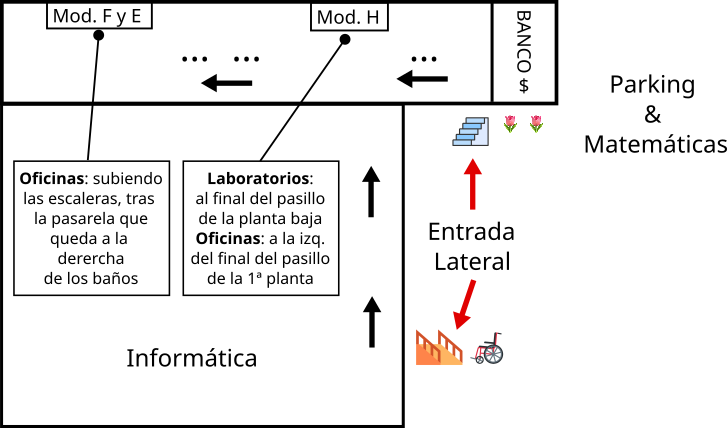
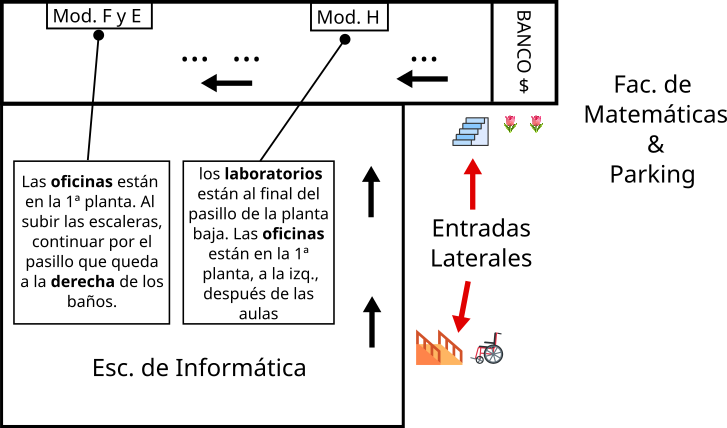
fixed bib/abs buttoms and map

diff --git a/_pages/teaching.md b/_pages/teaching.md
@@ -11,6 +11,6 @@ Puedes consultar mi horario oficial de tutorías en la pestaña de docencia de m
 
 Para concertar una **tutoría**, tanto fuera como dentro del horario oficial, se recomienda enviar un **correo electrónico**.
 
-Mi despacho es el **E1.63 de la E.T.S. de Ingeniería Informática**. Para llegar allí, dirígete a las oficinas del módulo E siguiendo el siguiente mapa.
+El departemento de CCIA tiene despachos en los módulos E y H de la **E.T.S. de Ingeniería Informática**. Mi despacho es el **E1.63**, es decir, en la primera planta del módulo E. Es complicado de llegar, por lo que puedes usar el siguiente mapa:
 
 <image src="../assets/img/ccia_map.png" alt="Mapa con las oficinas del departamento">
